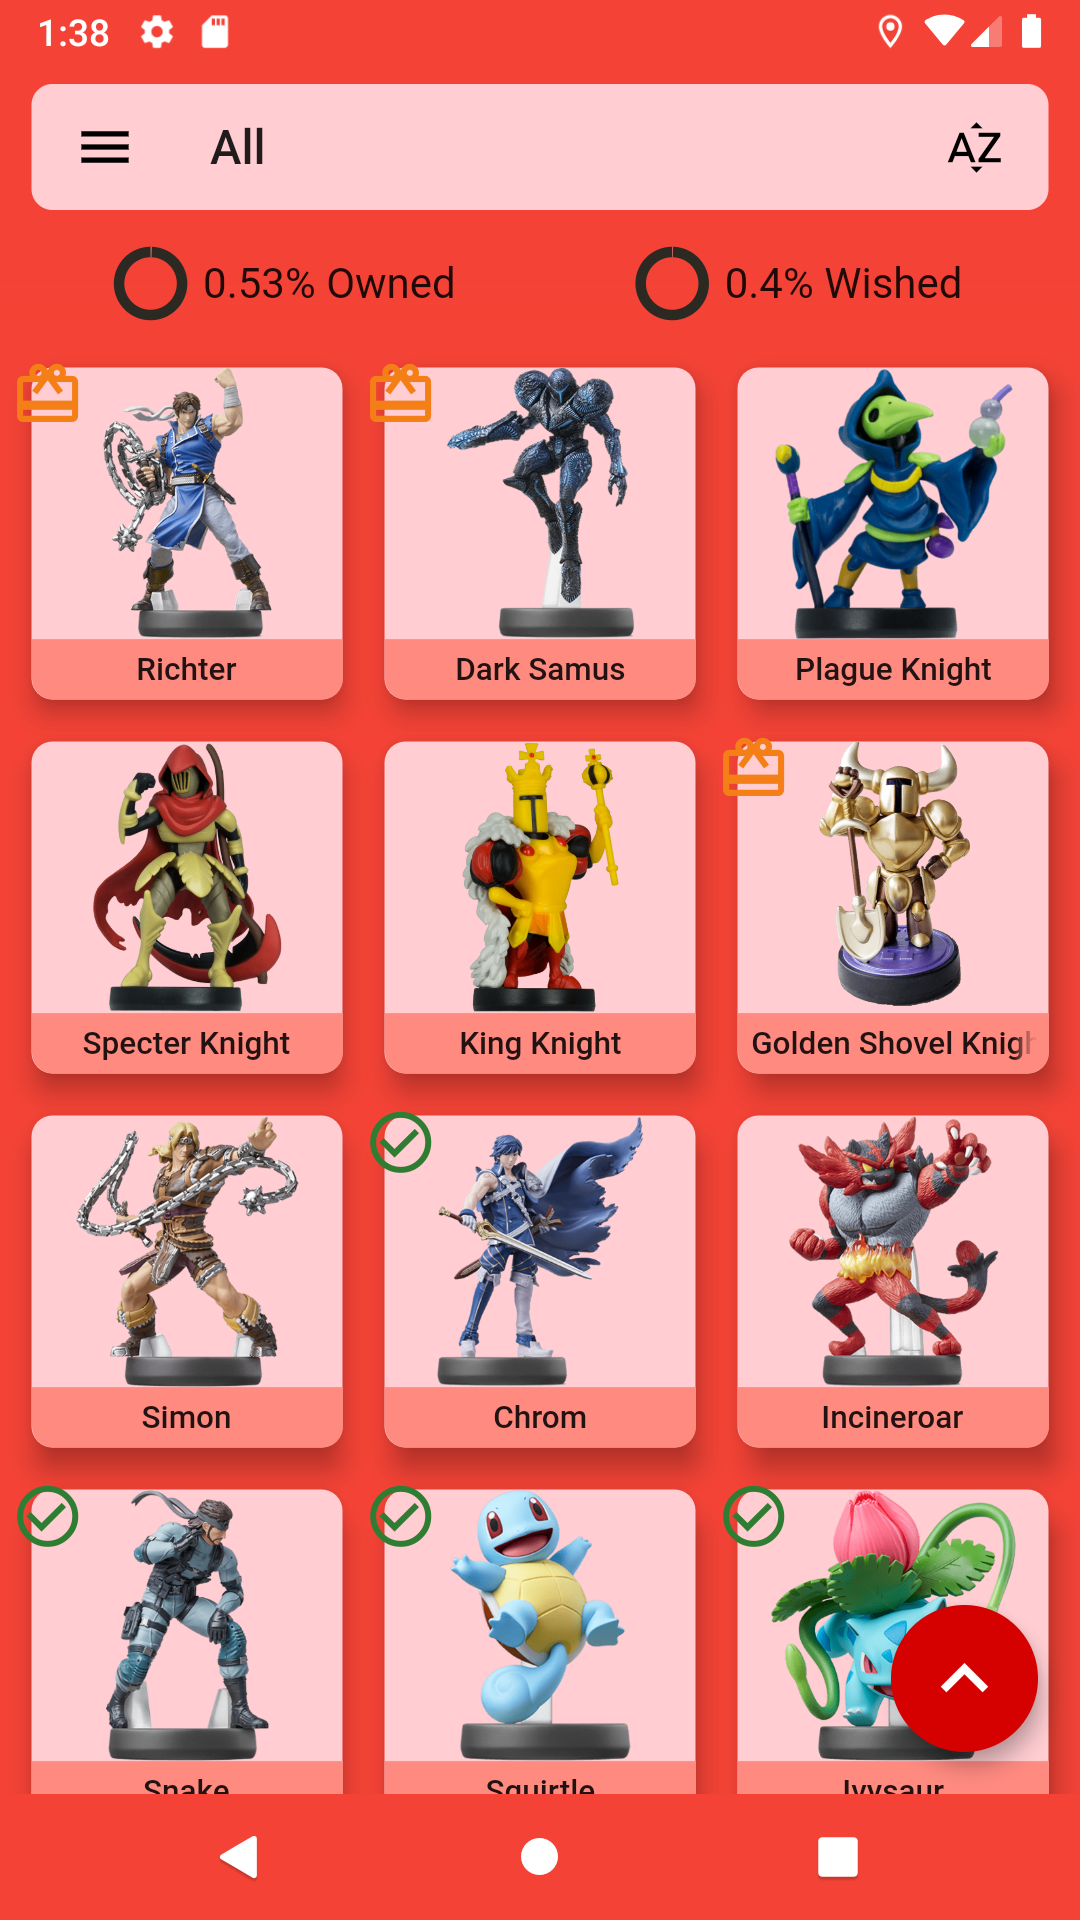
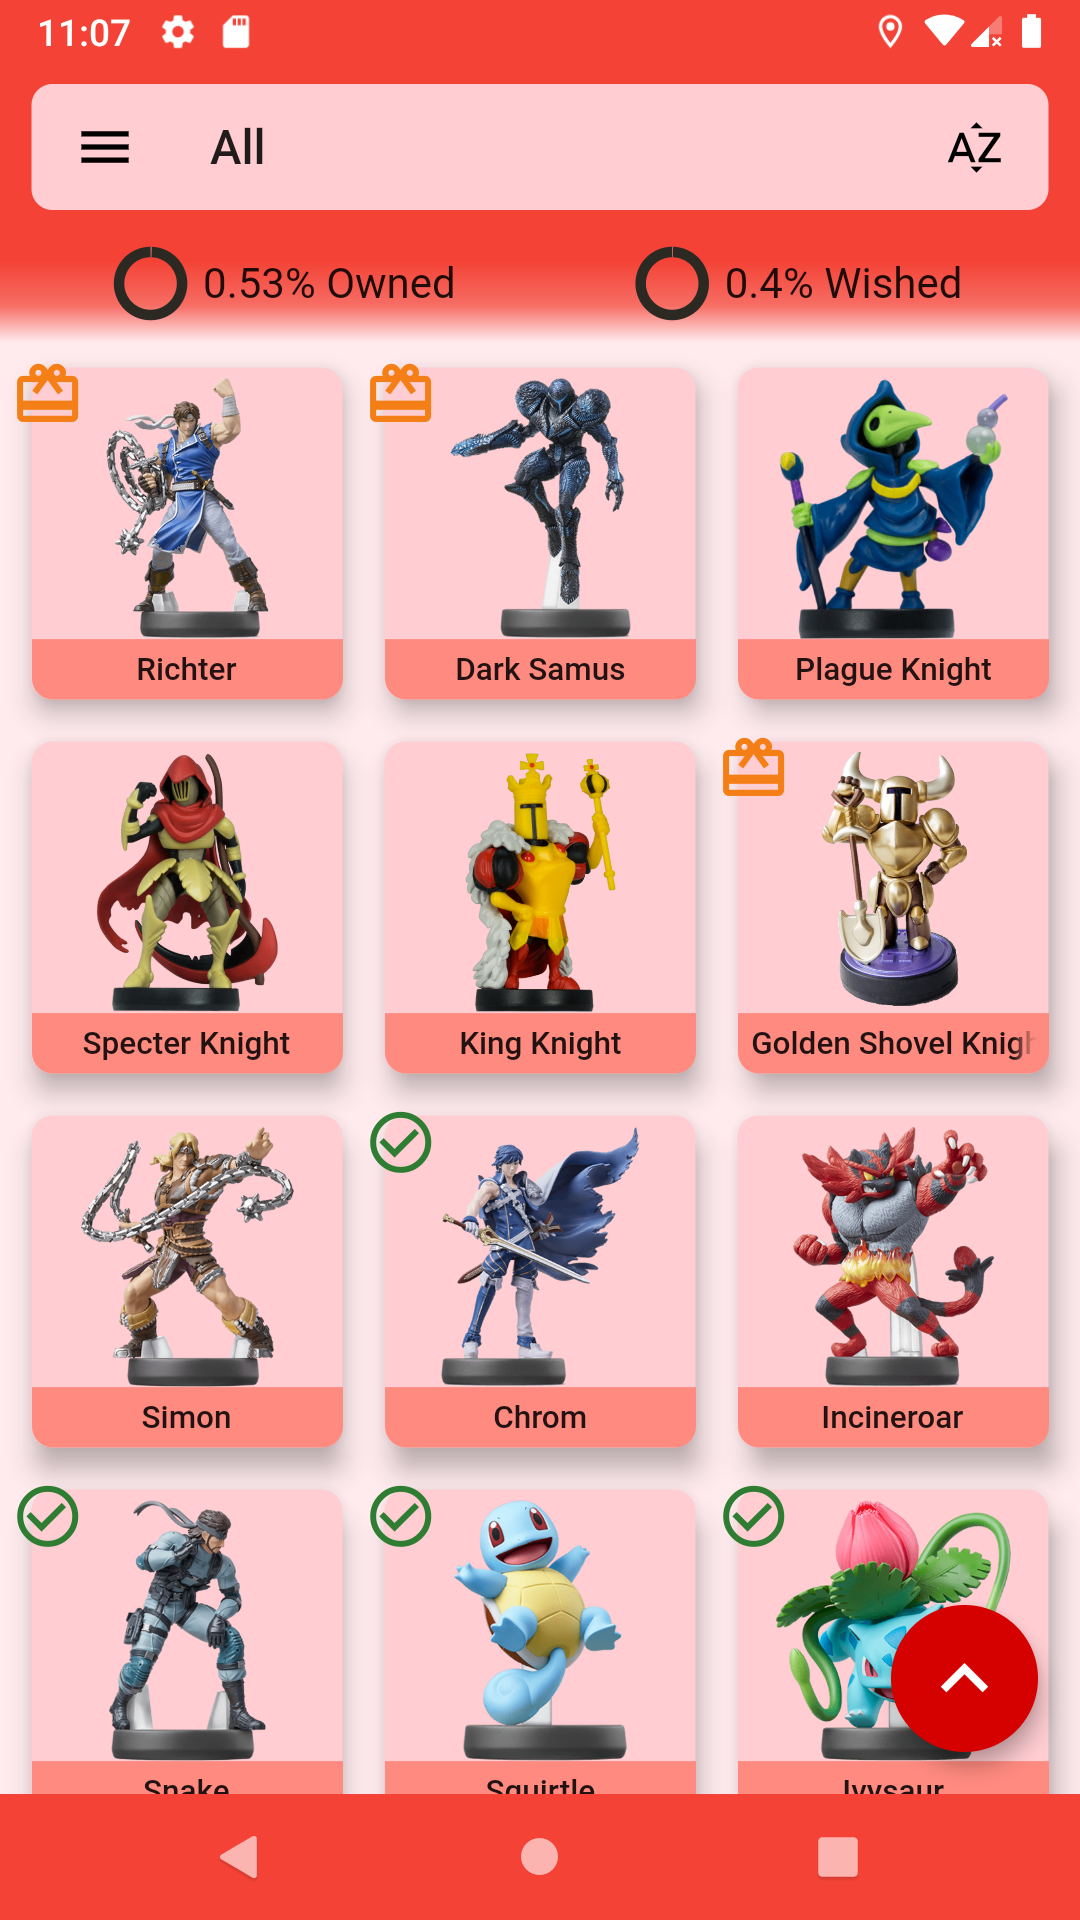
- Updated background of light mode to a white hue with a slightly soft color of the light theme selected - Updated Screenshots of Light Mode

diff --git a/lib/widget/route_transitions.dart b/lib/widget/route_transitions.dart
@@ -36,8 +36,8 @@ CupertinoPageRoute cupertinoRoute(Widget builder, RouteSettings settings){
     settings: settings,
     builder: (ctx) => AnnotatedRegion<SystemUiOverlayStyle>(
       value: SystemUiOverlayStyle(
-        statusBarColor: Theme.of(ctx).scaffoldBackgroundColor,
-        systemNavigationBarColor: Theme.of(ctx).scaffoldBackgroundColor
+        statusBarColor: Theme.of(ctx).appBarTheme.color,
+        systemNavigationBarColor: Theme.of(ctx).appBarTheme.color,
       ),
       child: builder
     )
@@ -49,8 +49,8 @@ MaterialPageRoute materialRoute(Widget builder, RouteSettings settings) {
     settings: settings,
     builder: (ctx) => AnnotatedRegion<SystemUiOverlayStyle>(
       value: SystemUiOverlayStyle(
-        statusBarColor: Theme.of(ctx).scaffoldBackgroundColor,
-        systemNavigationBarColor: Theme.of(ctx).scaffoldBackgroundColor
+        statusBarColor: Theme.of(ctx).appBarTheme.color,
+        systemNavigationBarColor: Theme.of(ctx).appBarTheme.color,
       ),
       child: builder,
     )
@@ -66,8 +66,8 @@ class FadeRoute<T> extends MaterialPageRoute<T> {
       Animation<double> secondaryAnimation, Widget child) {
     return AnnotatedRegion<SystemUiOverlayStyle>(
       value: SystemUiOverlayStyle(
-        statusBarColor: Theme.of(context).scaffoldBackgroundColor,
-        systemNavigationBarColor: Theme.of(context).scaffoldBackgroundColor
+        statusBarColor: Theme.of(context).appBarTheme.color,
+        systemNavigationBarColor: Theme.of(context).appBarTheme.color,
       ),
       child: FadeTransition(opacity: animation, child: child),
     );
@@ -84,8 +84,8 @@ class SlideRoute<T> extends MaterialPageRoute<T> {
     final double maxWidth = MediaQuery.of(context).size.width;
     return AnnotatedRegion<SystemUiOverlayStyle>(
       value: SystemUiOverlayStyle(
-        statusBarColor: Theme.of(context).scaffoldBackgroundColor,
-        systemNavigationBarColor: Theme.of(context).scaffoldBackgroundColor
+        statusBarColor: Theme.of(context).appBarTheme.color,
+        systemNavigationBarColor: Theme.of(context).appBarTheme.color,
       ),
       child: SlideTransition(
         position: Tween<Offset>(begin: const Offset(1, 0), end: Offset.zero)

diff --git a/lib/screen/home_page.dart b/lib/screen/home_page.dart
@@ -253,13 +253,13 @@ class _SliverPersistentHeader extends SliverPersistentHeaderDelegate {
 
   @override
   Widget build(BuildContext context, double shrinkOffset, bool overlapsContent) {
-    final Color _color = Theme.of(context).scaffoldBackgroundColor;
+    final Color _color = Theme.of(context).appBarTheme.color;
     return Container(
       padding: const EdgeInsets.symmetric(horizontal: 12),
       decoration: BoxDecoration(
         gradient: LinearGradient(
           begin: Alignment.topCenter, end: Alignment.bottomCenter,
-          stops: [0.5, 0.7, 1],
+          stops: [0.35, 0.65, 0.9],//[0.5, 0.7, 1],
           colors: [
             _color,
             _color.withOpacity(0.75),
@@ -716,20 +716,24 @@ class AmiiboGridState extends State<AmiiboGrid> {
                 textBaseline: TextBaseline.alphabetic,
                 children: <Widget>[
                   Expanded(
-                    child: Hero(
-                      transitionOnUserGestures: true,
-                      tag: amiibo.key,
-                      child: Image.asset('assets/collection/icon_${amiibo.key}.png',
-                        fit: BoxFit.scaleDown,
+                    child: Padding(
+                      padding: const EdgeInsets.only(top: 4.0, left: 4.0, right: 4.0),
+                      child: Hero(
+                        transitionOnUserGestures: true,
+                        tag: amiibo.key,
+                        child: Image.asset(
+                          'assets/collection/icon_${amiibo.key}.png',
+                          fit: BoxFit.scaleDown,
+                        )
                       ),
-                          /*
+                    ),
+                    /*
                       ColorFiltered(
                         colorFilter: ColorFilter.mode(Colors.white54, BlendMode.modulate),
                         child: Image.asset('assets/collection/icon_${amiibo.key}.png',
                           fit: BoxFit.scaleDown,
                         ),
                       )*/
-                    ),
                     flex: 9,
                   ),
                   Expanded(

diff --git a/lib/widget/floating_bar.dart b/lib/widget/floating_bar.dart
@@ -14,6 +14,7 @@ class SliverFloatingBar extends StatefulWidget{
   final Widget title;
   final double elevation;
   final VoidCallback onTap;
+  final Color backgroundColor;
 
   const SliverFloatingBar({
     Key key,
@@ -25,7 +26,8 @@ class SliverFloatingBar extends StatefulWidget{
     this.title,
     this.leading,
     this.trailing,
-    this.onTap
+    this.onTap,
+    this.backgroundColor
   }) : super(key:key);
 
   @override
@@ -70,7 +72,8 @@ class _SliverFloatingBarState extends State<SliverFloatingBar>
         title: widget.title,
         trailing: widget.trailing,
         onTap: widget.onTap,
-        elevation: widget.elevation
+        elevation: widget.elevation,
+        backgroundColor: widget.backgroundColor ?? Theme.of(context).appBarTheme.color
       )
     );
   }
@@ -85,6 +88,7 @@ class _SliverFloatingPersistentHeader extends SliverPersistentHeaderDelegate {
   final Widget leading;
   final Widget title;
   final VoidCallback onTap;
+  final Color backgroundColor;
 
   const _SliverFloatingPersistentHeader({
     this.snap = false,
@@ -93,7 +97,8 @@ class _SliverFloatingPersistentHeader extends SliverPersistentHeaderDelegate {
     this.trailing,
     this.leading,
     this.title,
-    this.onTap
+    this.onTap,
+    this.backgroundColor
   }) : _maxExtent = kToolbarHeight,
         _minExtent = kToolbarHeight,
         super();
@@ -110,7 +115,7 @@ class _SliverFloatingPersistentHeader extends SliverPersistentHeaderDelegate {
       child: _FloatingBar(
         snap: snap,
         child: Container(
-          color: Theme.of(context).scaffoldBackgroundColor,
+          color: backgroundColor,
           padding: const EdgeInsets.fromLTRB(12,8,12,0),
           child: ListTileTheme(
             contentPadding: const EdgeInsets.symmetric(horizontal: 4.0),
@@ -159,6 +164,7 @@ class _SliverFloatingPersistentHeader extends SliverPersistentHeaderDelegate {
       || trailing != oldDelegate.trailing
       || leading != oldDelegate.leading
       || title != oldDelegate.title
+      || backgroundColor != oldDelegate.backgroundColor
     ;
   }
 }

diff --git a/lib/screen/settings_screen.dart b/lib/screen/settings_screen.dart
@@ -133,8 +133,9 @@ class _SaveCollectionState extends State<_SaveCollection> {
   Set<String> select = {};
 
   Future<void> saveCollection() async{
-    final _service = Service();
     final StatProvider statProvider = Provider.of<StatProvider>(context, listen: false);
+    final ThemeData theme = Theme.of(context);
+    final _service = Service();
     AmiiboLocalDB amiibos = await _service.fetchByCategory('type', select.toList(),
       'CASE WHEN type = "Figure" THEN 1 '
       'WHEN type = "Yarn" THEN 2 ELSE 3 END, amiiboSeries DESC, na DESC');
@@ -151,7 +152,7 @@ class _SaveCollectionState extends State<_SaveCollection> {
       }Collection$time.png';
     final Paint ownedCardPaint = Paint()..color = colorOwned[100];
     final Paint wishedCardPaint = Paint()..color = colorWished[100];
-    final Color textColor = Theme.of(context).textTheme.title.color;
+    final Color textColor = theme.textTheme.title.color;
     final Paint unselectedCardPaint = Paint()..color = Colors.grey.withOpacity(0.5);
     final double margin = 20.0;
     final double maxSize = 60.0;
@@ -168,7 +169,7 @@ class _SaveCollectionState extends State<_SaveCollection> {
 
     final ui.PictureRecorder pictureRecorder = ui.PictureRecorder();
     final Canvas canvas = Canvas(pictureRecorder);
-    final Paint paint = Paint()..color = Theme.of(context).backgroundColor;
+    final Paint paint = Paint()..color = theme.scaffoldBackgroundColor;
 
     canvas.drawColor(paint.color, BlendMode.src);
 
@@ -224,7 +225,7 @@ class _SaveCollectionState extends State<_SaveCollection> {
     ).then((codec) => codec.getNextFrame())
       .then((frame) => frame.image).catchError((e) => print(e));
 
-    if(paint.color == Colors.black)
+    if(theme.brightness == Brightness.dark)
       canvas.drawImage(appIcon, Offset(margin, maxY - margin - 80),
         Paint()..colorFilter = ColorFilter.mode(Colors.white54, BlendMode.srcIn)
       );

diff --git a/lib/provider/theme_provider.dart b/lib/provider/theme_provider.dart
@@ -132,20 +132,20 @@ class _Theme{
       ),
       unselectedWidgetColor: Colors.black87,
       dividerColor: color,
-      scaffoldBackgroundColor: color,
+      scaffoldBackgroundColor: color[50],
       accentColor: accentColor[700],
       accentIconTheme: const IconThemeData(color: Colors.white),
       primaryIconTheme: const IconThemeData(color: Colors.black),
       iconTheme: const IconThemeData(color: Colors.black),
       errorColor: Colors.redAccent,
       primaryColorLight: accentColor[100],
-      canvasColor: Colors.white,
+      canvasColor: color[50],//Colors.white,
       primarySwatch: color,
       primaryColor: color,
       cursorColor: Colors.black12,
       backgroundColor: color[100],
       highlightColor: Colors.white70,
-      selectedRowColor: color[300],
+      selectedRowColor: color[200],
       cardTheme: CardTheme(
         color: color[100],
         margin: const EdgeInsets.symmetric(horizontal: 8, vertical: 4),

diff --git a/lib/screen/search_screen.dart b/lib/screen/search_screen.dart
@@ -36,6 +36,7 @@ class SearchScreenState extends State<SearchScreen>{
         body: CustomScrollView(
           slivers: <Widget>[
             SliverFloatingBar(
+              backgroundColor: Theme.of(context).scaffoldBackgroundColor,
               pinned: true,
               leading: BackButton(),
               title: TextField(
@@ -98,7 +99,7 @@ class _SliverPersistentHeader extends SliverPersistentHeaderDelegate {
   @override
   Widget build(BuildContext context, double shrinkOffset, bool overlapsContent) {
     return Container(
-      color: Theme.of(context).scaffoldBackgroundColor,
+      color: Theme.of(context).appBarTheme.color,
       child: Card(
         elevation: 0.0,
         margin: const EdgeInsets.fromLTRB(12.0, 6.0, 12.0, 0.0),

diff --git a/lib/main.dart b/lib/main.dart
@@ -58,8 +58,8 @@ class AmiiboNetwork extends StatelessWidget {
               builder: (BuildContext context){
                 return AnnotatedRegion<SystemUiOverlayStyle>(
                   value: SystemUiOverlayStyle(
-                    statusBarColor: Theme.of(context).scaffoldBackgroundColor,
-                    systemNavigationBarColor: Theme.of(context).scaffoldBackgroundColor
+                    statusBarColor: Theme.of(context).appBarTheme.color,
+                    systemNavigationBarColor: Theme.of(context).appBarTheme.color
                   ),
                   child: child,
                 );

diff --git a/lib/screen/detail_page.dart b/lib/screen/detail_page.dart
@@ -45,7 +45,7 @@ class _CardDetailAmiibo extends StatelessWidget{
                 children: <Widget>[
                   Expanded(
                     child: Padding(
-                      padding: const EdgeInsets.only(top: 8.0, left: 8.0),
+                      padding: const EdgeInsets.only(top: 4.0, left: 4.0),
                       child: Hero(
                         transitionOnUserGestures: true,
                         tag: amiibo.key,

diff --git a/lib/screen/settings_detail.dart b/lib/screen/settings_detail.dart
@@ -11,8 +11,6 @@ class SettingsDetail extends StatelessWidget {
   Widget build(BuildContext context) {
     return SafeArea(
       child: Scaffold(
-        backgroundColor: Theme.of(context).brightness == Brightness.dark
-          ? Theme.of(context).scaffoldBackgroundColor : Colors.white,
         appBar: AppBar(title: Text(title),),
         body: SingleChildScrollView(
           padding: EdgeInsets.all(16),

diff --git a/lib/screen/stats_page.dart b/lib/screen/stats_page.dart
@@ -98,6 +98,7 @@ class _StatsPageState extends State<StatsPage> {
           ),
         ),
         bottomNavigationBar: BottomAppBar(
+          color: Theme.of(context).appBarTheme.color,
           child: Padding(
             padding: EdgeInsets.symmetric(horizontal: 8, vertical: 6),
             child: Row(
